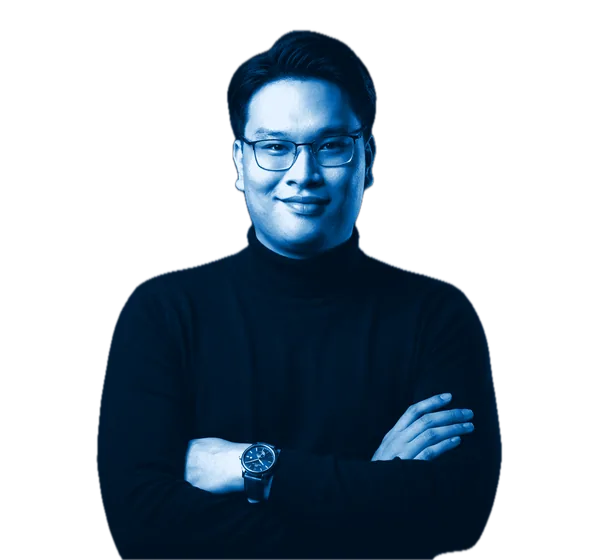
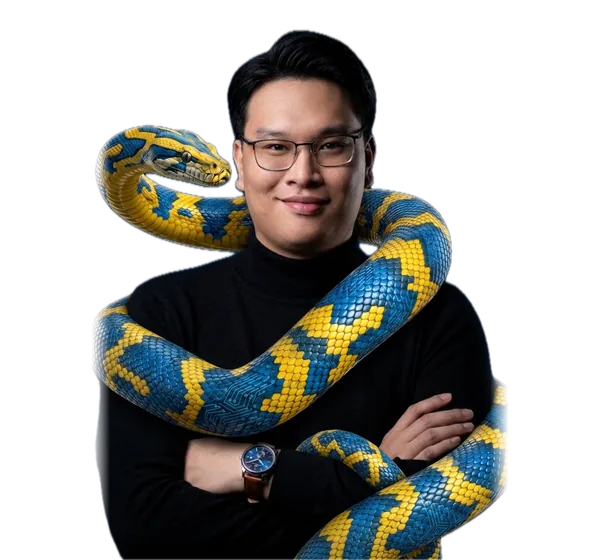
feat: "Show aura" switch reveals the snake portrait instead of the blue render
- hero-alt-933/600.webp now come from with-snake-profile.jpg: background removed
  with macOS Vision (person + snake kept), same framing as the photo layer
  (faces align at 0px offset), 40px side fade where the snake leaves the frame
- Switch label "Show render" -> "Show aura"; comments/README say aura

diff --git a/index.html b/index.html
@@ -13,7 +13,7 @@
     <link rel="preconnect" href="https://fonts.googleapis.com" />
     <link rel="preconnect" href="https://fonts.gstatic.com" crossorigin />
     <link rel="stylesheet" href="https://fonts.googleapis.com/css2?family=Bricolage+Grotesque:opsz,wdth,wght@12..96,75..100,500..800&family=Onest:wght@400;500&display=swap" />
-    <!-- LCP image: the alt render shows first, then burns into the photo -->
+    <!-- LCP image: the aura (snake) layer shows first, then burns into the photo -->
     <link rel="preload" as="image" href="./src/assets/images/hero-alt-933.webp" imagesrcset="./src/assets/images/hero-alt-600.webp 600w, ./src/assets/images/hero-alt-933.webp 933w" imagesizes="(max-width: 1024px) 100vw, 90vh" fetchpriority="high" />
 
     <meta property="og:type" content="website" />
@@ -104,7 +104,7 @@
           </ul>
           <button type="button" class="hero-switch" aria-pressed="false">
             <span class="switch-icon" aria-hidden="true"><svg class="icon" viewBox="0 0 24 24"><path d="M4 8h14l-4-4M18 8l-4 4M20 16H6l4-4M6 16l4 4" /></svg></span>
-            <span><span class="hero-switch-title">Show render</span><span class="hero-switch-sub">Switch portrait</span></span>
+            <span><span class="hero-switch-title">Show aura</span><span class="hero-switch-sub">Switch portrait</span></span>
           </button>
           <div class="hero-cta-wrap">
             <a href="#projects" class="hero-cta">View projects <svg class="icon" viewBox="0 0 24 24" aria-hidden="true"><path d="M7 17 17 7M8 7h9v9" /></svg></a>

diff --git a/src/js/portrait-reveal.js b/src/js/portrait-reveal.js
@@ -14,9 +14,9 @@ precision highp float; // mediump breaks the sin-hash on many mobile GPUs
 uniform sampler2D uPhoto;
 uniform sampler2D uAlt;
 uniform sampler2D uTrail;
-uniform float uProgress;   // 0 = render fully shown, 1 = photo fully shown
+uniform float uProgress;   // 0 = aura fully shown, 1 = photo fully shown
 uniform vec3 uGlow;
-uniform vec2 uPhotoOffset; // calibration knob so the photo's eyes sit on the render's eyes
+uniform vec2 uPhotoOffset; // calibration knob so the photo's eyes sit on the aura's eyes
 varying vec2 vUv;
 
 float hash(vec2 p) { return fract(sin(dot(p, vec2(127.1, 311.7))) * 43758.5453); }
@@ -63,7 +63,7 @@ const TRAIL_WIDTH = 192;   // trail mask resolution; the noise hides the low res
 const TRAIL_FADE = 0.045;  // alpha erased per frame (~1.5 s trail life at 60 fps)
 const BRUSH_PX = 90;       // brush radius in CSS px
 const IDLE_FRAMES = 150;   // keep rendering after the last pointer move so the trail can fade out
-const BURN_SECONDS = 1.3;  // duration of a full photo <-> render burn
+const BURN_SECONDS = 1.3;  // duration of a full photo <-> aura burn
 
 const hexToRgb = (hex) => {
   const n = parseInt(hex.slice(1), 16);

diff --git a/src/css/home.css b/src/css/home.css
@@ -76,7 +76,7 @@
 .hero-portrait { position: absolute; bottom: -40px; left: 50%; height: calc(100% - 64px); aspect-ratio: 946 / 883; transform: translate(-50%); animation: fade 1s both; }
 .hero-portrait img, .hero-portrait canvas { position: absolute; inset: 0; width: 100%; height: 100%; }
 .hero-portrait canvas { opacity: 0; transition: opacity 0.2s; }
-/* Calibration knob: keep equal to photoOffset in portrait-reveal.js; 0 while photo and render share a crop */
+/* Calibration knob: keep equal to photoOffset in portrait-reveal.js; 0 while photo and aura share a crop */
 .hero-portrait .layer-photo { transform: translateY(0); }
 .hero-portrait.is-intro .layer-photo { opacity: 0; }
 .hero-portrait.is-static img { transition: opacity 0.6s; }

diff --git a/src/js/main.js b/src/js/main.js
@@ -79,7 +79,7 @@ function initHero() {
     layer = layer === 'photo' ? 'alt' : 'photo';
     portrait.dataset.layer = layer;
     btn.setAttribute('aria-pressed', String(layer === 'alt'));
-    title.textContent = layer === 'photo' ? 'Show render' : 'Show photo';
+    title.textContent = layer === 'photo' ? 'Show aura' : 'Show photo';
     reveal?.show(layer);
     if (mode === 'intro' && !reveal) setMode('static');
   });

diff --git a/README.md b/README.md
@@ -17,9 +17,9 @@ Static portfolio: HTML, CSS and vanilla JS ES modules with a raw WebGL hero. No 
 
 ## Calibrating the hero portrait
 
-If the photo and render don't line up, change the `photoOffset` default of `mountPortraitReveal()`
+If the photo and aura layers don't line up, change the `photoOffset` default of `mountPortraitReveal()`
 in `src/js/portrait-reveal.js` and keep it equal to
 `.hero-portrait .layer-photo { transform: translateY(...) }` in `src/css/home.css`
-(0.008 = 0.8%). Both are currently 0 because the photo and render share a crop.
+(0.008 = 0.8%). Both are currently 0 because the photo and aura share a crop.
 
 Design inspired by rinlayheang.me.
